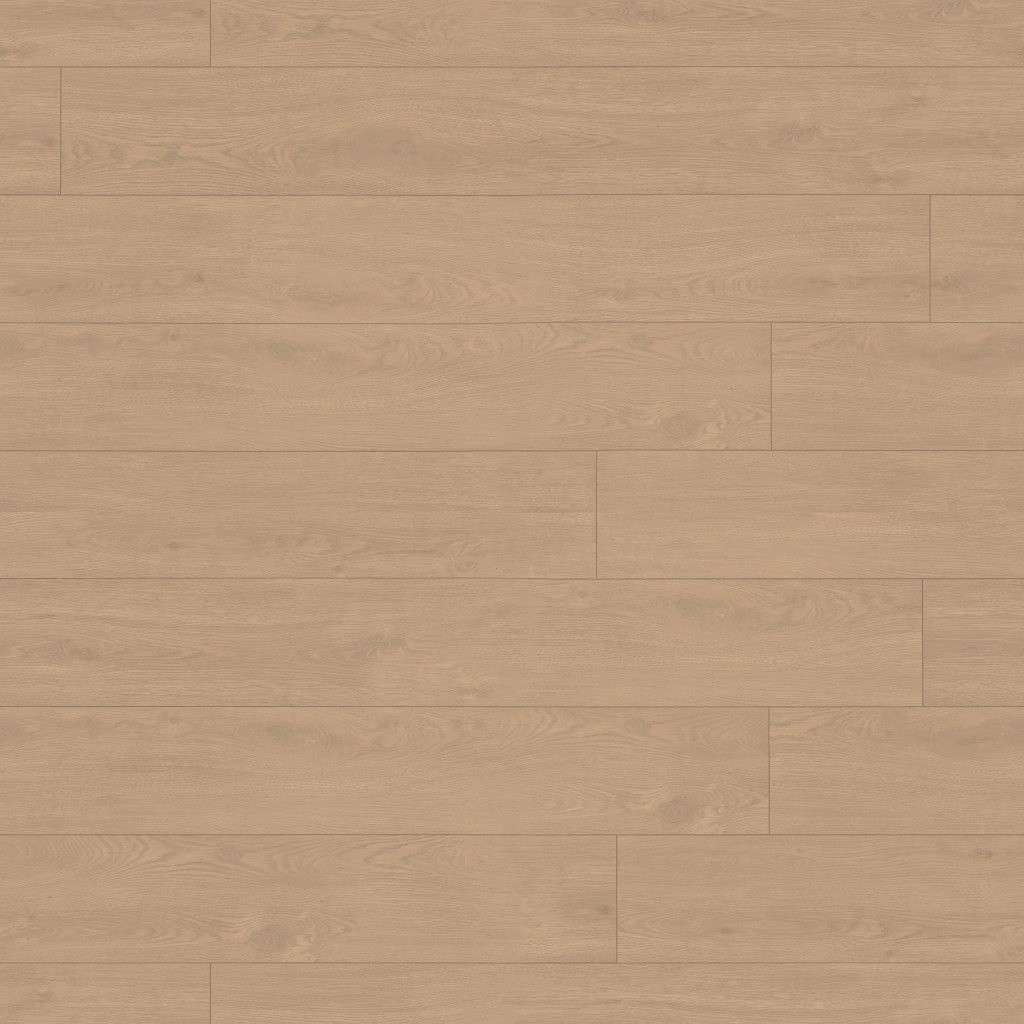
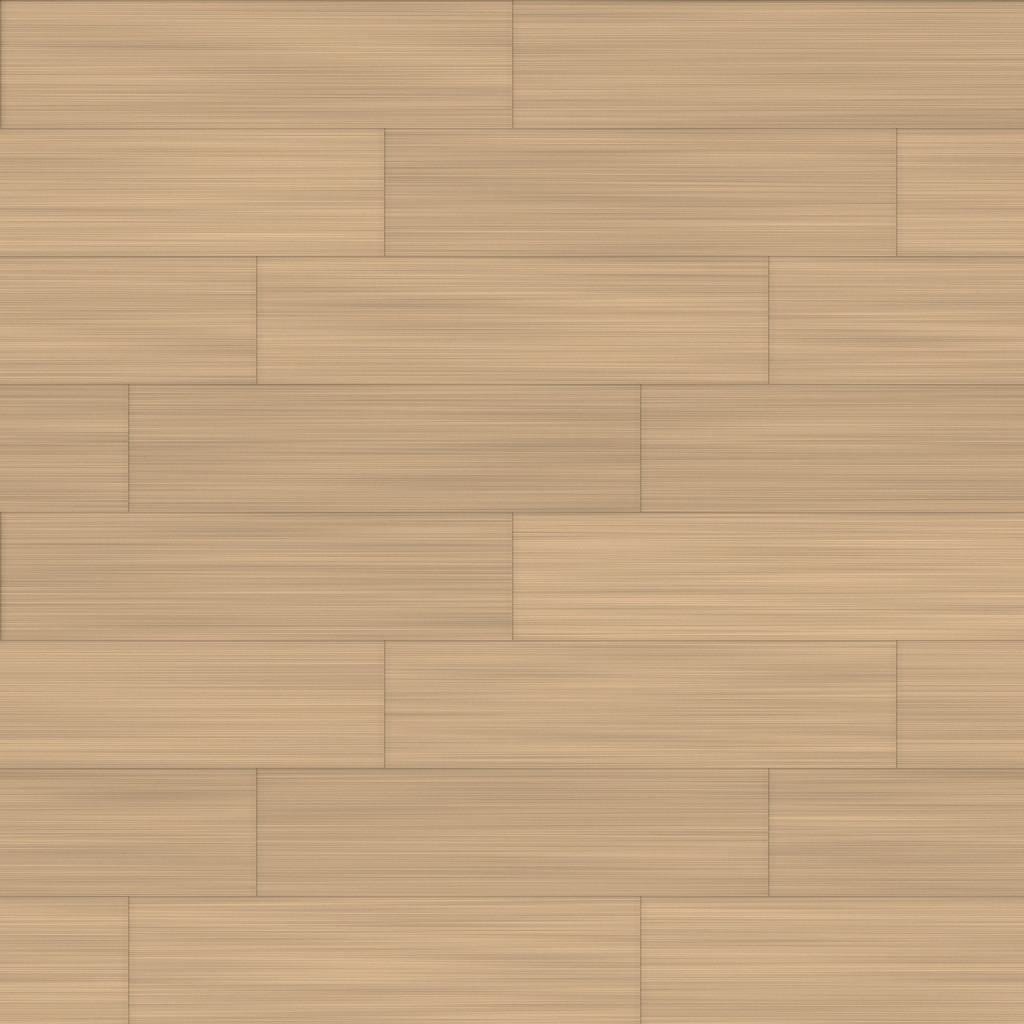
v14s14: clean laminate, no floor strip, shadow sliders (density, length 3-30 cm), chrome env, white plinths default

diff --git a/v14/app.js b/v14/app.js
@@ -2,7 +2,7 @@ import * as THREE from 'three';
 import { OrbitControls } from 'three/addons/controls/OrbitControls.js';
 import { RoomEnvironment } from 'three/addons/environments/RoomEnvironment.js';
 import { RoundedBoxGeometry } from 'three/addons/geometries/RoundedBoxGeometry.js';
-import { CATALOG, RULES, ARTS } from './catalog.js?v=v14s13';
+import { CATALOG, RULES, ARTS } from './catalog.js?v=v14s14';
 
 const $ = id => document.getElementById(id);
 const MM = 0.001;
@@ -51,7 +51,7 @@ function defaults0() {
   };
 }
 const ROOMDEF = { shP: 'soft', winL: 'off', glareM: 'soft', win: false, door: false, winX: 0, cornice: false, extra: 250, ceiling: false, ceilH: 275, skirting: true, lamps: false, glare: 0.3, shadow: 0.5, angle: 90, skirtColor: '#ffffff', lampType: 'spot', glow: 'none', shOn: true, shAng: 20, shBlur: 4, shDist: 0.12, shadow: 0.55 };
-function migrate(S) { S.room = Object.assign({}, ROOMDEF, S.room || {}); if (!S.v13a) { S.v13a = 1; /* v13b (from v11u): only Titan catalog baskets */ S.basketStyle = 'mesh'; if (!['pull|mesh', 'basket|mesh'].includes(S.bKind)) S.bKind = 'pull|mesh'; (S.walls || []).forEach(w => (w.sections || []).forEach(sc => (sc.items || []).forEach(o => { if (o && (o.t === 'basket' || o.t === 'pull')) { o.v = 'mesh'; if (o.t === 'basket') o.h = 85; else o.h = (o.h || 85) > 130 ? 181 : 85; if (![30, 40].includes(o.d)) o.d = 40; } }))); } if (!S.v11m) { S.v11m = 1; Object.assign(S, { wall: '#fbf8f3', wallCustom: true, wallFin: 'relief', floor: 'lam', metal: 'black' }); S.wallVar = Object.assign({}, S.wallVar, { relief: 'brick' }); } if (!S.v10) { S.v10 = 1; if (S.dimC === 'white') S.dimC = 'auto'; delete S.dims; } if (!Array.isArray(S.props)) S.props = []; if (!S.v4) { S.v4 = 1; Object.assign(S.room, { shBlur: 4, shDist: 0.12, shadow: 0.55 }); } S.room.lampType = 'spot'; if (!S.v7) { S.v7 = 1; const d = S.dm || {}; S.dm = { o: !!(d.t || d.v), s: !!d.s, h: false, g: !!d.c, sd: false }; S.room.shAng = Math.max(-35, Math.min(35, S.room.shAng ?? 20)); S.room.shBlur = Math.min(8, S.room.shBlur ?? 4); S.room.shadow = Math.max(0.2, Math.min(0.8, S.room.shadow ?? 0.55)); } if (S.metal === 'graphite') S.metal = 'black'; if (!METAL[S.metal]) S.metal = 'white'; if (S.rod && S.rod !== 'white') S.rod = 'chrome'; if (!S.dm || !('o' in S.dm)) S.dm = { o: false, s: false, h: false, g: false, sd: false }; S.dimC = S.dimC === 'black' ? 'black' : 'white'; S.dimStyle = S.dimStyle === 'thin' ? 'thin' : 'bold'; if (!S.basketStyle) S.basketStyle = 'mesh'; if (!S.prices) S.prices = {}; if (!S.depth) S.depth = 40;
+function migrate(S) { S.room = Object.assign({}, ROOMDEF, S.room || {}); if (!S.v14w) { S.v14w = 1; S.room.skirtColor = '#ffffff'; S.room.cornColor = '#ffffff'; } if (!S.v13a) { S.v13a = 1; /* v13b (from v11u): only Titan catalog baskets */ S.basketStyle = 'mesh'; if (!['pull|mesh', 'basket|mesh'].includes(S.bKind)) S.bKind = 'pull|mesh'; (S.walls || []).forEach(w => (w.sections || []).forEach(sc => (sc.items || []).forEach(o => { if (o && (o.t === 'basket' || o.t === 'pull')) { o.v = 'mesh'; if (o.t === 'basket') o.h = 85; else o.h = (o.h || 85) > 130 ? 181 : 85; if (![30, 40].includes(o.d)) o.d = 40; } }))); } if (!S.v11m) { S.v11m = 1; Object.assign(S, { wall: '#fbf8f3', wallCustom: true, wallFin: 'relief', floor: 'lam', metal: 'black' }); S.wallVar = Object.assign({}, S.wallVar, { relief: 'brick' }); } if (!S.v10) { S.v10 = 1; if (S.dimC === 'white') S.dimC = 'auto'; delete S.dims; } if (!Array.isArray(S.props)) S.props = []; if (!S.v4) { S.v4 = 1; Object.assign(S.room, { shBlur: 4, shDist: 0.12, shadow: 0.55 }); } S.room.lampType = 'spot'; if (!S.v7) { S.v7 = 1; const d = S.dm || {}; S.dm = { o: !!(d.t || d.v), s: !!d.s, h: false, g: !!d.c, sd: false }; S.room.shAng = Math.max(-35, Math.min(35, S.room.shAng ?? 20)); S.room.shBlur = Math.min(8, S.room.shBlur ?? 4); S.room.shadow = Math.max(0.2, Math.min(0.8, S.room.shadow ?? 0.55)); } if (S.metal === 'graphite') S.metal = 'black'; if (!METAL[S.metal]) S.metal = 'white'; if (S.rod && S.rod !== 'white') S.rod = 'chrome'; if (!S.dm || !('o' in S.dm)) S.dm = { o: false, s: false, h: false, g: false, sd: false }; S.dimC = S.dimC === 'black' ? 'black' : 'white'; S.dimStyle = S.dimStyle === 'thin' ? 'thin' : 'bold'; if (!S.basketStyle) S.basketStyle = 'mesh'; if (!S.prices) S.prices = {}; if (!S.depth) S.depth = 40;
   if (!S.v8) { S.v8 = 1; if (S.wall === '#b3b1ad') S.wall = '#a9a49c'; S.room.shP = S.room.shOn === false ? 'none' : 'soft'; S.room.extra = Math.max(250, S.room.extra || 0); S.room.glareM = 'soft'; if (S.rug === true) S.rug = { shape: 'rect', pile: 'flat' }; }
   if (S.floor === 'tile') S.floor = 'marble'; if (S.rug && typeof S.rug !== 'object') S.rug = { shape: 'rect', pile: 'flat' }; if (!S.plants) S.plants = []; if (!S.wallVar) S.wallVar = { paint: 'matte', plaster: 'koroed', paper: 'linen' }; if (!['soft', 'left', 'right', 'top', 'sharp', 'sun', 'none'].includes(S.room.shP)) S.room.shP = 'soft'; if (!['off', 'wall', 'floor', 'both'].includes(S.room.winL)) S.room.winL = 'off'; if (!['soft', 'bright', 'off'].includes(S.room.glareM)) S.room.glareM = 'soft';
   // v9: ceiling always on (a bit higher), walls at full width, short attached shadows
@@ -281,7 +281,7 @@ function wallMat(sd) { const IN = S.interior != null, v = IN ? 'intp' : finVar()
 // small tile preview of a finish, tinted by the wall color
 function finSwatch(v) { const c = document.createElement('canvas'); c.width = c.height = 96; const g = c.getContext('2d'), src = finishTex(v).image, k = FINK[v] || 0.9, px = Math.min(512, 512 * 0.35 / k); g.drawImage(src, 0, 0, px, px, 0, 0, 96, 96); g.globalCompositeOperation = 'multiply'; g.fillStyle = S.wall; g.fillRect(0, 0, 96, 96); return c.toDataURL('image/jpeg', 0.85); }
 
-function wallShadowMat() { return new THREE.ShadowMaterial({ opacity: Math.min(0.85, (SHP[S.room.shP] || SHP.soft).k * 1.6 * ((S.room.shadow ?? 0.5) / 0.5)), depthWrite: false, polygonOffset: true, polygonOffsetFactor: -1, polygonOffsetUnits: -1 }); }
+function wallShadowMat() { return new THREE.ShadowMaterial({ opacity: Math.min(0.9, (0.04 + 0.86 * (S.room.shadow ?? 0.5)) * (SHP[S.room.shP] || SHP.soft).k / 0.38), depthWrite: false, polygonOffset: true, polygonOffsetFactor: -1, polygonOffsetUnits: -1 }); }
 const AOG = {};
 function aoGrad(k) { // soft quadratic falloff, alpha along u (u=0 darkest)
   if (!AOG[k]) { const c = document.createElement('canvas'); c.width = 256; c.height = 2; const g = c.getContext('2d'), im = g.createImageData(256, 2); for (let x = 0; x < 256; x++) { const t = x / 255, a = Math.pow(1 - t, 2.2) * 255; for (let y = 0; y < 2; y++) { const i = (y * 256 + x) * 4; im.data[i + 3] = a; } } g.putImageData(im, 0, 0); AOG[k] = new THREE.CanvasTexture(c); }
@@ -344,7 +344,7 @@ function makeMats() {
   const rt = slotTex(true, dark).clone(); rt.needsUpdate = true; M.railTex = rt;
   // top rail: smooth solid profile without perforation (only the uprights carry the slot rows)
   M.rail = new THREE.MeshPhysicalMaterial({ ...PB, normalMap: rep(G.nor, 30, 1), normalScale: new THREE.Vector2(0.18, 0.18), roughnessMap: rep(G.rough, 30, 1) });
-  M.chrome = new THREE.MeshPhysicalMaterial({ color: 0xffffff, metalness: 1, roughness: 0.07, clearcoat: 1, clearcoatRoughness: 0.04, specularIntensity: 1, emissive: new THREE.Color(0x000000), envMap: chromeEnv(), envMapIntensity: 2.4, userData: { chrome: true } }); /* v14: satin chrome like brushed steel handles - soft bright streak along the rod, darker edges, metallic from every angle */
+  M.chrome = new THREE.MeshPhysicalMaterial({ color: 0xe9f0f8, metalness: 1, roughness: 0.035, clearcoat: 1, clearcoatRoughness: 0.03, specularIntensity: 1, emissive: new THREE.Color(0x000000), envMap: chromeEnv(), envMapIntensity: 1.7, userData: { chrome: true } }); /* v14: satin chrome like brushed steel handles - soft bright streak along the rod, darker edges, metallic from every angle */
   M.brk = M.metal; /* v14: rod holders in the system color */
   M.rod = S.rod === 'white' ? new THREE.MeshPhysicalMaterial({ color: 0xffffff, metalness: 0.04, roughness: 0.3, clearcoat: 0.55, clearcoatRoughness: 0.3, specularIntensity: 0.5, sheen: 0.3, sheenRoughness: 0.35, sheenColor: new THREE.Color(0xffffff), emissive: new THREE.Color(0x50555f), envMapIntensity: 0.9 * gm, normalMap: rep(G.nor, 8, 2), normalScale: new THREE.Vector2(0.2, 0.2) }) /* v13b: snow white rod */
     : S.rod === 'black' ? new THREE.MeshPhysicalMaterial({ color: 0x111111, metalness: 0.85, roughness: 0.45, clearcoat: 0.3, clearcoatRoughness: 0.35, specularIntensity: 0.9, envMapIntensity: 1 * gm, normalMap: rep(G.nor, 8, 2), normalScale: new THREE.Vector2(0.2, 0.2) }) : M.chrome;
@@ -434,7 +434,7 @@ const ROD_G = new THREE.CylinderGeometry(1, 1, 1, 32, 1).translate(0, 0.5, 0), H
 let _GRM = null, _GRK = null; function gridMat() { if (_GRM && _GRK === M.metal) return _GRM; const c = document.createElement('canvas'); c.width = c.height = 64; const g = c.getContext('2d'); g.fillStyle = '#000'; g.fillRect(0, 0, 64, 64); g.fillStyle = '#fff'; g.fillRect(0, 0, 64, 9); g.fillRect(0, 0, 9, 64);
   const t = new THREE.CanvasTexture(c); t.wrapS = t.wrapT = THREE.RepeatWrapping; t.repeat.set(34, 15); t.anisotropy = 4; _GRK = M.metal; _GRM = M.metal.clone(); _GRM.alphaMap = t; _GRM.alphaTest = 0.5; _GRM.side = THREE.DoubleSide; _GRM.normalMap = null; return _GRM; }
 let _CHE = null; function chromeEnv() { if (_CHE) return _CHE; const c = document.createElement('canvas'); c.width = 512; c.height = 256; const g = c.getContext('2d');
-  const gr = g.createLinearGradient(0, 0, 0, 256); gr.addColorStop(0, '#ffffff'); gr.addColorStop(0.3, '#dfe3e8'); gr.addColorStop(0.46, '#4a4e54'); gr.addColorStop(0.5, '#101113'); gr.addColorStop(0.56, '#6d7177'); gr.addColorStop(0.8, '#9a9ea3'); gr.addColorStop(1, '#55585c'); g.fillStyle = gr; g.fillRect(0, 0, 512, 256);
+  const gr = g.createLinearGradient(0, 0, 0, 256); [[0, '#ffffff'], [0.2, '#f4f8ff'], [0.34, '#8f99a8'], [0.4, '#ffffff'], [0.44, '#c9d2de'], [0.48, '#15181c'], [0.53, '#050607'], [0.58, '#3a4048'], [0.66, '#e8eef6'], [0.72, '#6a727c'], [0.85, '#1c1f23'], [1, '#2e3238']].forEach(([o, c]) => gr.addColorStop(o, c)); g.fillStyle = gr; g.fillRect(0, 0, 512, 256);
   g.fillStyle = '#ffffff'; [[30, 40], [150, 22], [250, 56], [380, 30], [470, 18]].forEach(([x, w]) => g.fillRect(x, 10, w, 105)); g.fillStyle = '#1a1b1d'; [[100, 14], [215, 10], [330, 16], [440, 10]].forEach(([x, w]) => g.fillRect(x, 0, w, 256));
   const t = new THREE.CanvasTexture(c); t.mapping = THREE.EquirectangularReflectionMapping; t.colorSpace = THREE.SRGBColorSpace; _CHE = new THREE.PMREMGenerator(renderer).fromEquirectangular(t).texture; return _CHE; }
 function rodHolder(g, x, by, ry, zr, side) {
@@ -504,7 +504,7 @@ function buildItem(g, item, x0, x1, sec) {
     [[x0 + 0.003, aa], [x1 - 0.003, bb]].forEach(([xa, xb]) => g.add(box(Math.abs(xb - xa) + 0.006, 0.022, dep, (xa + xb) / 2, y - 0.011, z0 + dep / 2, M.metal)));
     [aa, bb].forEach(x => g.add(box(0.012, 0.024, dep - 0.02, x, y - 0.02, z0 + dep / 2, M.metal)));
     g.add(box(bb - aa + 0.012, 0.03, 0.012, (aa + bb) / 2, y - 0.022, z0 + 0.012, M.metal));
-    /* v14s13: open front end - bars stick out freely (Titan), no front cap */
+    /* v14s14: open front end - bars stick out freely (Titan), no front cap */
     const r = [], rings = [];
     for (let k = 0; k < n; k++) { const x = aa + 0.03 + (bb - aa - 0.06) * k / (n - 1); r.push([V(x, yb, z0 + 0.018), V(x, yb, zf - 0.016), 0.0055]); for (let zz = z0 + 0.05; zz < zf - 0.05; zz += 0.05) rings.push([V(x, yb, zz), V(x, yb, zz + 0.008), 0.0078]); }
     g.add(rods(r, M.metal)); g.add(rods(rings, M.rubber));
@@ -688,10 +688,10 @@ function buildRoom() {
   const act = wallsActive(), sideLen = Math.max(5, ...[1, 2].filter(w => act.includes(w)).map(w => effGap(w) / 100 + wallWidth(w) * MM + Mg));
   const floorM = ST ? new THREE.ShadowMaterial({ opacity: 0 }) : (fm0 => fm0.isMeshStandardMaterial ? new THREE.MeshLambertMaterial({ color: fm0.color, map: fm0.map, normalMap: fm0.normalMap, normalScale: fm0.normalScale, userData: { floor: true } }) : fm0)(floorMat()); // matte floor: no glare
   // floor laid from the corner: tiles and parquet at 45 deg, laminate along the main wall (real scale, see FLOORS)
-  window.__IC = cl ? left : cr ? right : F.x0; window.__BC = F.x0 + backW / 2; const fc = cl ? left : cr ? right : F.x0, FD = FLOORS[S.floor] || FLOORS.oak, fRot = FD[4] ? Math.PI / 4 : 0;
+  window.__IC = cl ? left : cr ? right : F.x0; window.__BC = F.x0 + backW / 2; const fc = cl ? left : cr ? right : F.x0, FD = FLOORS[S.interior != null ? 'int' : S.floor] || FLOORS.oak, fRot = FD[4] ? Math.PI / 4 : 0;
   const fl = new THREE.Mesh(new THREE.PlaneGeometry(60, 60), floorM); fl.rotation.set(-Math.PI / 2, 0, fRot); fl.position.set(fc, 0, 0); fl.receiveShadow = !ST; fl.userData.floorM = true; room.add(fl); if (S.interior != null && !ST) { fl.material = new THREE.MeshBasicMaterial({ map: floorM.map, toneMapped: false }); const fs = new THREE.Mesh(fl.geometry, new THREE.ShadowMaterial({ opacity: 0.18 })); fs.rotation.copy(fl.rotation); fs.position.set(fc, 0.0008, 0); fs.receiveShadow = true; room.add(fs); }
   const FJ = FLOORS[S.floor] && FLOORS[S.floor][3];
-  if (!ST && FJ) { const jt = jointTex(S.floor).clone(); jt.needsUpdate = true; jt.repeat.set(60 / FJ[0], 60 / FJ[1]); const j = new THREE.Mesh(new THREE.PlaneGeometry(60, 60), new THREE.MeshBasicMaterial({ map: jt, transparent: true, depthWrite: false, polygonOffset: true, polygonOffsetFactor: -1, polygonOffsetUnits: -1 })); j.rotation.set(-Math.PI / 2, 0, fRot); j.position.set(fc, 0.0005, 0); room.add(j); }
+  if (!ST && FJ && S.interior == null) { const jt = jointTex(S.floor).clone(); jt.needsUpdate = true; jt.repeat.set(60 / FJ[0], 60 / FJ[1]); const j = new THREE.Mesh(new THREE.PlaneGeometry(60, 60), new THREE.MeshBasicMaterial({ map: jt, transparent: true, depthWrite: false, polygonOffset: true, polygonOffsetFactor: -1, polygonOffsetUnits: -1 })); j.rotation.set(-Math.PI / 2, 0, fRot); j.position.set(fc, 0.0005, 0); room.add(j); }
   const ops = ST ? [] : openingsList(F, CH), WH = CH + 0.03, bk = new THREE.Group(); room.add(bk);
   const wallPlane = (w, x, z, ry, parent, holes) => {
     const sh = new THREE.Shape(); sh.moveTo(-w / 2, -WH / 2); sh.lineTo(w / 2, -WH / 2); sh.lineTo(w / 2, WH / 2); sh.lineTo(-w / 2, WH / 2); sh.lineTo(-w / 2, -WH / 2);
@@ -703,7 +703,7 @@ function buildRoom() {
   };
   const bo = ops.filter(o => o.wall === 'B').map(o => ({ ...o, c: o.x - cx }));
   bk.userData.occ = wallPlane(right - left, cx, 0, 0, bk, bo);
-  const skM = new THREE.MeshBasicMaterial({ color: S.room.skirtColor || '#f6f5f2', toneMapped: false }); skM.userData.flat = true; /* v13b: unlit plinth - same colour at any rotation, no shading/shadow/AO */
+  const skM = new THREE.MeshBasicMaterial({ color: S.room.skirtColor || '#ffffff', toneMapped: false }); skM.userData.flat = true; /* v13b: unlit plinth - same colour at any rotation, no shading/shadow/AO */
   // skirting runs along u (local x of a wall frame), cut at doors
   const skirt = (parent, u0, u1, cuts, place) => { let segs = [[u0, u1]]; cuts.forEach(([a, b]) => { segs = segs.flatMap(([s, e]) => b <= s || a >= e ? [[s, e]] : [[s, a], [b, e]].filter(([p, q]) => q - p > 0.01)); });
     segs.forEach(([s, e]) => { const g = new THREE.Group(); place(g); [[0.016, 0.08, 0.04, 0.008], [0.022, 0.012, 0.074, 0.011]].forEach(([d, h, y, z]) => { const m = box(e - s, h, d, (s + e) / 2, y, z, skM); m.castShadow = false; m.receiveShadow = false; m.renderOrder = 2; g.add(m); }); parent.add(g); }); };
@@ -717,7 +717,7 @@ function buildRoom() {
     pv.userData.occ = wallPlane(sideLen, 0, sideLen / 2, L ? Math.PI / 2 : -Math.PI / 2, pv, so);
     if (ST) return;
     // v13b: floor fill under this side wall, shaped each frame to the folded-floor wedge (no white gap from below)
-    { floorM.side = THREE.DoubleSide; const fm = floorM; /* v13b: same material as the main floor */ const fg = new THREE.BufferGeometry(); fg.setAttribute('position', new THREE.Float32BufferAttribute(new Array(9).fill(0), 3)); fg.setAttribute('uv', new THREE.Float32BufferAttribute(new Array(6).fill(0), 2)); const f = new THREE.Mesh(fg, fm); f.frustumCulled = false; f.visible = false; f.userData.floorFill = { L, len: 60 }; f.receiveShadow = !ST; pv.add(f); FILLS.push(f); }
+    { const fm = S.interior != null && !ST ? new THREE.MeshBasicMaterial({ color: 0xc4a583, toneMapped: false }) : floorM; /* v14s14: plain tone, no stretched stripes */ fm.side = THREE.DoubleSide; /* v13b: same material as the main floor */ const fg = new THREE.BufferGeometry(); fg.setAttribute('position', new THREE.Float32BufferAttribute(new Array(9).fill(0), 3)); fg.setAttribute('uv', new THREE.Float32BufferAttribute(new Array(6).fill(0), 2)); const f = new THREE.Mesh(fg, fm); f.frustumCulled = false; f.visible = false; f.userData.floorFill = { L, len: 60 }; f.receiveShadow = !ST; pv.add(f); FILLS.push(f); }
     const fr = new THREE.Group(); fr.rotation.y = L ? Math.PI / 2 : -Math.PI / 2; if (L) fr.scale.x = -1; pv.add(fr); // local x = u (z in room), local z into the room
     if (!ST && S.room.skirting !== false) skirt(fr, 0, sideLen, doorCuts(ops.filter(o => o.wall === (L ? 'L' : 'R')), 'z'), () => {});
     if (S.room.cornice) cornice(sideLen, g => g.position.x = sideLen / 2, fr);
@@ -1239,8 +1239,8 @@ function applyGlareShadow() {
   const on = R.shP !== 'none' && !S.sun;
   sun.castShadow = (!!photo && !$('showRoom').checked) || (R.shP !== 'none' && !ST); gobo.castShadow = gobo.intensity > 0 && sun.castShadow; // shelf shadows are baked on the wall (SHB)
   if (P.el != null && !S.sun) {
-    const sd = R.shDist ?? 0.5, az = (P.az + (R.shAng || 0)) * Math.PI / 180, el = Math.max(12, Math.min(85, P.el + (0.5 - sd) * 70)) * Math.PI / 180, D = 7; /* v14s13: distance slider 0 = light from above (tight contact shadow) .. 1 = low light (long diagonal) */
-    sun.position.set(c.x + D * Math.sin(az) * Math.cos(el), c.y + D * Math.sin(el), c.z + D * Math.cos(az) * Math.cos(el)); sun.target.position.copy(c);
+    const sd = R.shDist ?? 0.5, az = (P.az + (R.shAng || 0)) * Math.PI / 180, el = Math.max(12, Math.min(85, P.el + (0.5 - sd) * 70)) * Math.PI / 180, D = 7; /* v14s14: distance slider 0 = light from above (tight contact shadow) .. 1 = low light (long diagonal) */
+    if (R.shP === 'sun') sun.position.set(c.x + D * Math.sin(az) * Math.cos(el), c.y + D * Math.sin(el), c.z + D * Math.cos(az) * Math.cos(el)); else { /* v14s14: wall-mounted object, offset = depth * tan(angle): ~3 cm at 0 .. ~30 cm at 1, side + down */ const t = 0.06 + 0.5 * sd, sx = (P.az < -3 ? -1 : P.az > 3 ? 1 : 0.7) * t * (P.az === 0 ? 0.25 : 1), dv = V(sx, t, 1).normalize(); sun.position.set(c.x + D * dv.x, c.y + D * dv.y, c.z + D * dv.z); } sun.target.position.copy(c);
     // tight light-space frustum around the construction and plants: crisp, attached shadows without acne
     const b = bbox.clone(); decor.children.forEach(o => { if (o.userData.plant != null) b.expandByObject(o); }); b.expandByScalar(0.2); b.min.y = 0; b.min.z = Math.min(b.min.z, 0);
     _sc.position.copy(sun.position); _sc.lookAt(sun.target.position); _sc.updateMatrixWorld(true); const inv = _sc.matrixWorldInverse;
@@ -1927,7 +1927,7 @@ function renderDeco() {
     S.plants = [...(S.plants || []), { k, x: px, z: pz, s: 1, r: pr }]; plantSel = n; rebuild(); renderDeco(); });
   $('plantList').querySelectorAll('[data-ps]').forEach(el => { el.oninput = () => { const i = +el.dataset.ps; S.plants[i].s = +el.value; plantSel = i; const g = decor.children.find(c => c.userData.plant === i); if (g) g.scale.setScalar(+el.value); }; el.onchange = () => { rebuild(); }; });
   $('plantList').querySelectorAll('[data-pd]').forEach(b => b.onclick = () => { S.plants.splice(+b.dataset.pd, 1); plantSel = -1; rebuild(); renderDeco(); });
-  $('cornT').checked = !!R.cornice; $('skirtT').checked = R.skirting !== false; $('skirtC').value = R.skirtColor || '#ffffff'; $('cornC').value = R.cornColor || '#fbfaf6'; $('ceilH2').value = R.ceilH || 285; $('ceilV2').textContent = R.ceilH || 285;
+  $('cornT').checked = !!R.cornice; $('skirtT').checked = R.skirting !== false; $('skirtC').value = R.skirtColor || '#ffffff'; $('cornC').value = R.cornColor || '#ffffff'; $('ceilH2').value = R.ceilH || 285; $('ceilV2').textContent = R.ceilH || 285;
   renderLight(); renderSwatches(); renderAng();
   drawWallPick(); drawBgPick();
 }

diff --git a/v14/index.html b/v14/index.html
@@ -2,7 +2,7 @@
 <meta http-equiv="Cache-Control" content="no-cache, no-store, must-revalidate"><meta http-equiv="Pragma" content="no-cache"><meta http-equiv="Expires" content="0"><meta charset="utf-8"><meta name="viewport" content="width=device-width,initial-scale=1,maximum-scale=1">
 <link rel="icon" href="data:,"><title>Конструктор гардеробной ТИТАН GS</title>
 <link rel="preconnect" href="https://fonts.googleapis.com"><link rel="preconnect" href="https://fonts.gstatic.com" crossorigin><link href="https://fonts.googleapis.com/css2?family=Inter:wght@400;500;700;800&family=Manrope:wght@400;500;600;700;800&family=Montserrat:wght@400;500;700;800&family=Playfair+Display:wght@500;600;700&display=swap" rel="stylesheet">
-<link rel="stylesheet" href="style.css?v=v14s13">
+<link rel="stylesheet" href="style.css?v=v14s14">
 <script type="importmap">{"imports":{"three":"https://cdn.jsdelivr.net/npm/three@0.160.0/build/three.module.js","three/addons/":"https://cdn.jsdelivr.net/npm/three@0.160.0/examples/jsm/"}}</script>
 </head><body>
 <div id="topbar"><div class="seg" id="szV"></div><button id="mirrorBtn" title="Отзеркалить всю конструкцию">⇄<span class="mtx"> Зеркально</span></button><button id="fxBtn" class="snd" title="Эффект" aria-label="Эффект"><svg viewBox="0 0 24 24" fill="none" stroke="currentColor" stroke-width="1.7" stroke-linecap="round"><path d="M12 3v3M12 18v3M3 12h3M18 12h3M5.6 5.6l2.1 2.1M16.3 16.3l2.1 2.1M5.6 18.4l2.1-2.1M16.3 7.7l2.1-2.1"/><circle cx="12" cy="12" r="2.6"/></svg></button><button id="lensBtn" class="snd" title="Камера: Обычная" aria-label="Камера"><svg viewBox="0 0 24 24" fill="none" stroke="currentColor" stroke-width="1.7"><circle cx="12" cy="12" r="8"/><circle class="l2" cx="12" cy="12" r="4"/><path class="l3" d="M12 4v3M12 17v3M4 12h3M17 12h3"/></svg></button><button id="sndBtn" class="snd" title="Звук" aria-label="Звук"><svg viewBox="0 0 24 24" fill="none" stroke="currentColor" stroke-width="1.7" stroke-linecap="round" stroke-linejoin="round"><path d="M4 9.5h3.2L12 5.5v13l-4.8-4H4z"/><path class="w1" d="M15.5 9.2a4 4 0 0 1 0 5.6"/><path class="w2" d="M18.2 6.8a7.4 7.4 0 0 1 0 10.4"/><path class="mx" d="M16 9.5l5 5M21 9.5l-5 5"/></svg></button><button id="moreBtn" title="Сохранить, загрузить, ссылка, шаблоны, снимки">⋯</button>
@@ -108,5 +108,5 @@
 </div>
 <p class="foot">Размеры элементов взяты из каталога ТИТАН GS 2024. Визуализация ориентировочная.</p>
 </div></div>
-<script type="module" src="app.js?v=v14s13"></script>
+<script type="module" src="app.js?v=v14s14"></script>
 </body></html>
